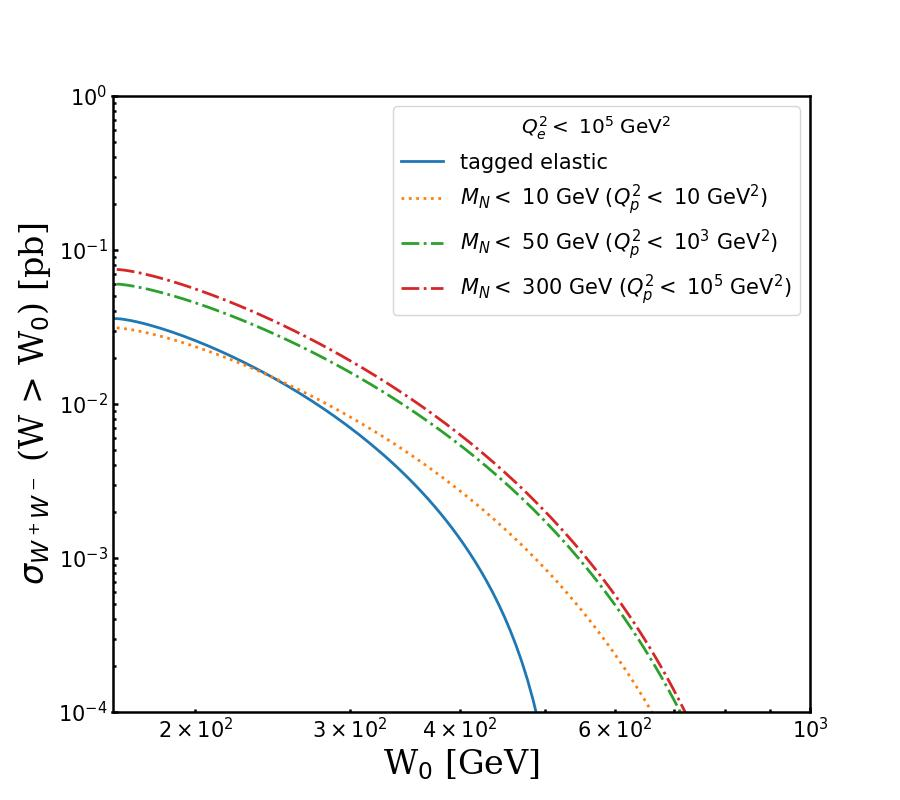
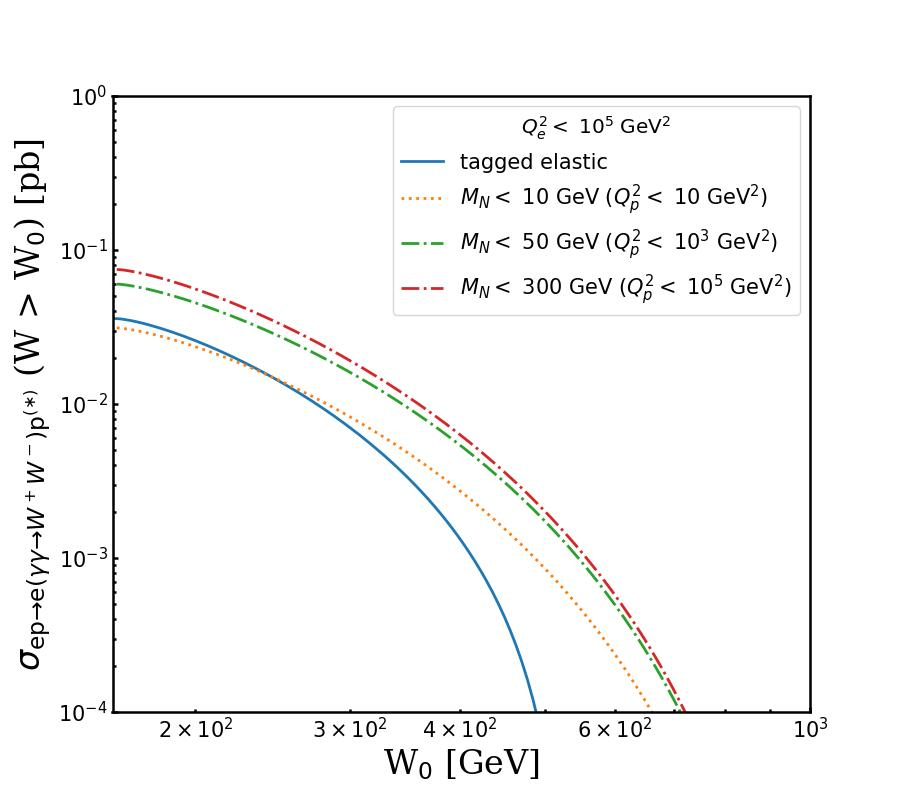
Plots

Changed region(s): [[0.0, 0.1562, 0.0622, 0.8438]]

diff --git a/yy_Corrected_with_MN2_mMin2_q2min_25April_ALLM/trapint_ww_Hamzeh.py b/yy_Corrected_with_MN2_mMin2_q2min_25April_ALLM/trapint_ww_Hamzeh.py
@@ -171,7 +171,10 @@ font1 = {'family':'serif','color':'black','size':24}
 font2 = {'family':'serif','color':'black','size':24}
 
 plt.xlabel("W$_0$ [GeV]",  fontdict = font2)
-plt.ylabel("$\sigma_{W^+W^-}$ (W > W$_0$) [pb]", fontdict = font2)
+plt.ylabel(r"$\sigma_{{\rm ep}\to {\rm e}(\gamma\gamma \to W^+W^-){\rm p}^{(\ast)}}$ (W > W$_0$) [pb]", fontdict = font2)
+
+# plt.ylabel(r"$\sigma_{{\rm ep}\to {\rm e}(\gamma\gamma\to\tau^+\tau^-){\rm p}^{(\ast)}}$ (W > W$_0$) [pb]", fontdict = font2)
+
 
 
 plt.savefig("cs_WW_MN2_mMin2_q2min_Final_25April.pdf")
